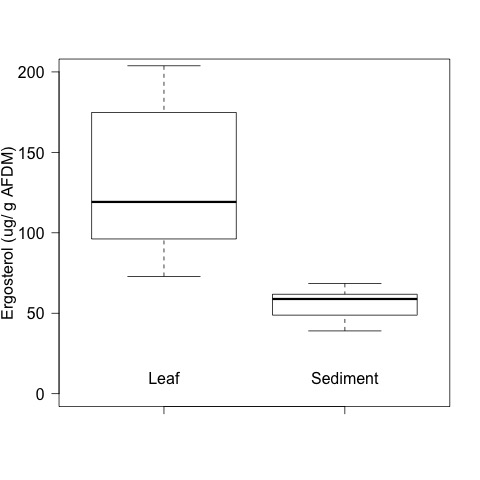
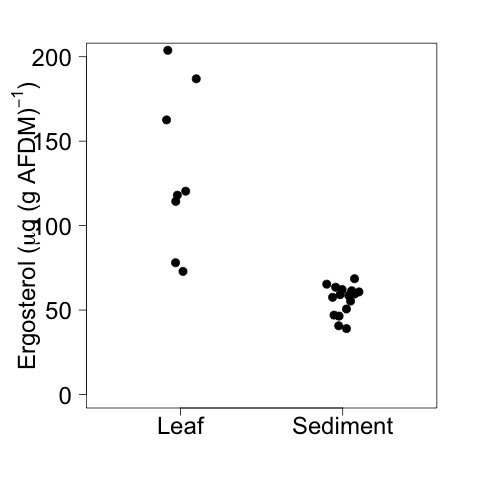
ergo figures

diff --git a/lab_notebook/analysis/CPOM_Flux_Ergo_Analysis.md b/lab_notebook/analysis/CPOM_Flux_Ergo_Analysis.md
@@ -1,5 +1,9 @@
 # Analysis of the Ergosterol Data from the CPOM Flux Experiment
 
+## Modified
+
+* 17 May 2016 - KF - adjusted the calculations of the leaf surface area to only use one surface based on Vlads recommendtion, prepped figures for SFS talk
+
 ## Import Data
 
     ergo <- read.table("./data/CPOM_Flux_Ergo.csv", header = T, sep = ",")
@@ -12,9 +16,9 @@ Given that the sediments have a lot of volume that does not likely support fungi
     
     sed.area <- pi * ((0.8 / 2)^2) # sediment core = 0.8 cm diam. Units = cm^2
 
-The surface area of the leaf discs is multipled by 2 assuming that each leaf disc could be colonized on both sides.
+The surface area of the leaf discs is NOT multipled by 2 so colonization is assumed to only occur on the upper surface od the leaf.
     
-    leaf.area <- (pi * ((1 / 2)^2)) * 4 * 2 # leaf discs 1 cm diam and each sample = 4 leaf discs.  Units = cm^2
+    leaf.area <- (pi * ((1 / 2)^2)) * 4 # leaf discs 1 cm diam and each sample = 4 leaf discs.  Units = cm^2
 
     surf.area <- rep(NA, 32) # create empty object
     # fill in appropriate areas
@@ -27,7 +31,7 @@ The surface area of the leaf discs is multipled by 2 assuming that each leaf dis
 
 ## Calculated Variable Descriptions
     
-* surf.area = the surface area of the total sample material in the vial. For the sediment core it is the surface area of the sediment core in cm^2. For the leaf discs it is the total surface area of both sides of the 4 leaf discs in cm^2.
+* surf.area = the surface area of the total sample material in the vial. For the sediment core it is the surface area of the sediment core in cm^2. For the leaf discs it is the surface area of only one side of the 4 leaf discs in cm^2.
     
 * ergo.area = the mass of ergosterol per cm^2 of sediment or leaf disc in the sample (&mu;g / cm^2).
     
@@ -57,10 +61,12 @@ Min. 1st Qu.  Median    Mean 3rd Qu.    Max.
     
 ~~~~
 
-     par(las = 1)
-     boxplot(ergo$ergo_per_OM[ergo$samp == "leaf"], ergo$ergo_per_OM[ergo$samp == "sed"], ylim = c(0, 200), ylab = "Ergosterol (ug/ g AFDM)")
-    text(1, 10, "Leaf")
-    text(2, 10, "Sediment")
+    # points plot
+    par(las = 1, mar=c(5, 6, 3, 3))
+    plot(ergo_per_OM ~ jitter(as.numeric(samp), 0.5), data = ergo, xlim = c(0.5, 2.5), ylim = c(0, 200), ylab = expression(paste("Ergosterol (", mu, "g (g AFDM)"^{-1}, ")")), xlab = " ", axes = F, cex = 1.5, cex.lab = 1.5, pch = 19)
+    axis(2, cex.axis = 1.5)
+    axis(1, at = c(1, 2), c("Leaf", "Sediment"), cex.axis = 1.5)
+    box()
     dev.copy(jpeg, "./output/plots/ergo_per_OM_by_samp.jpg")
     dev.off()
     
@@ -79,8 +85,8 @@ For the leaf samples (&mu;g ergosterol / cm^2 leaf):
 ~~~~
      
  Min. 1st Qu.  Median    Mean 3rd Qu.    Max.    NAs 
-0.07512 0.10370 0.13750 0.14610 0.18260 0.23350       8 
-    
+ 0.1502  0.2075  0.2751  0.2921  0.3651  0.4671       8 
+
 ~~~~
      
 For the sediment samples (&mu;g ergosterol / cm^2 sediments):
@@ -103,10 +109,10 @@ Min. 1st Qu.  Median    Mean 3rd Qu.    Max.
     #dev.off()
 
     # points plot
-    par(las = 1)
-    plot(ergo.area ~ jitter(as.numeric(samp), 1), data = ergo, xlim = c(0, 3), ylab = "Ergosterol (ug / cm^2)", xlab = " ", axes = F)
-    axis(2)
-    axis(1, at = c(1, 2), c("Leaf", "Sediment"))
+    par(las = 1, mar=c(5, 6, 3, 3))
+    plot(ergo.area ~ jitter(as.numeric(samp), 0.5), data = ergo, xlim = c(0.5, 2.5), ylim = c(0, 3), ylab = expression(paste("Ergosterol (", mu, "g cm"^{-2}, ")")), xlab = " ", axes = F, cex = 1.5, cex.lab = 1.5, pch = 19)
+    axis(2, cex.axis = 1.5)
+    axis(1, at = c(1, 2), c("Leaf", "Sediment"), cex.axis = 1.5)
     box()
     dev.copy(jpeg, "./output/plots/ergo_per_cm2.jpg")
     dev.off()
